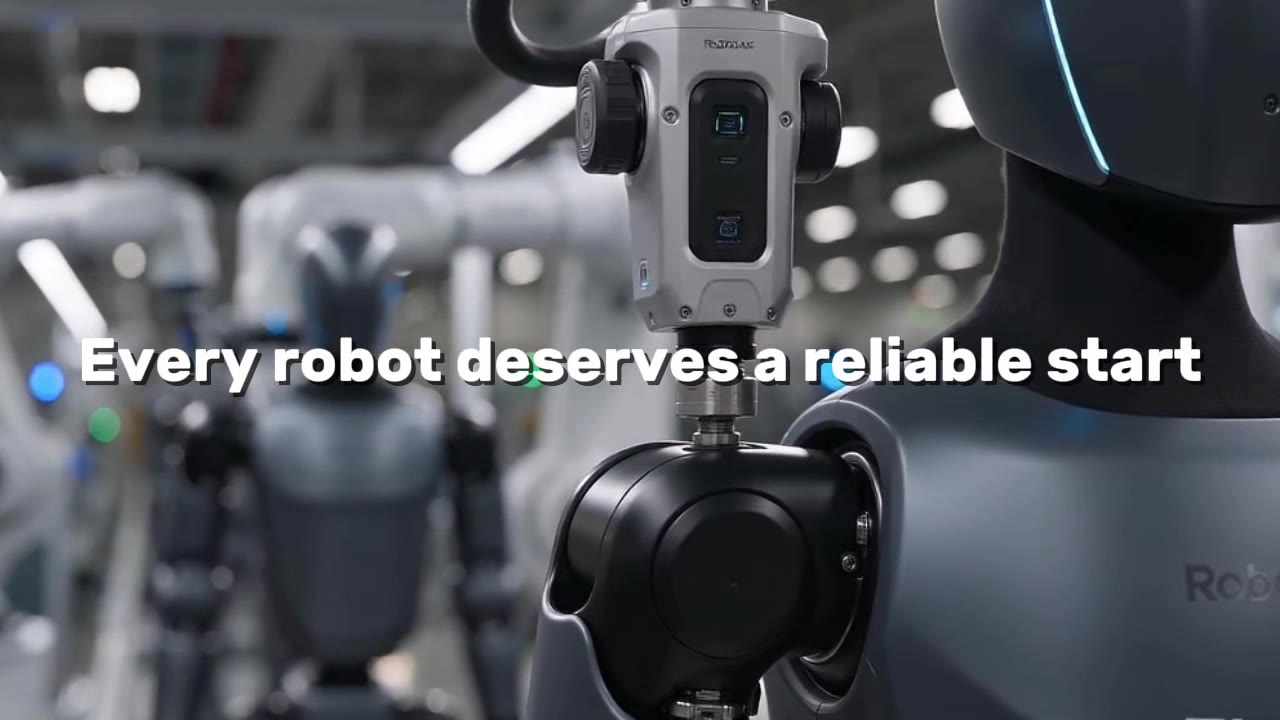
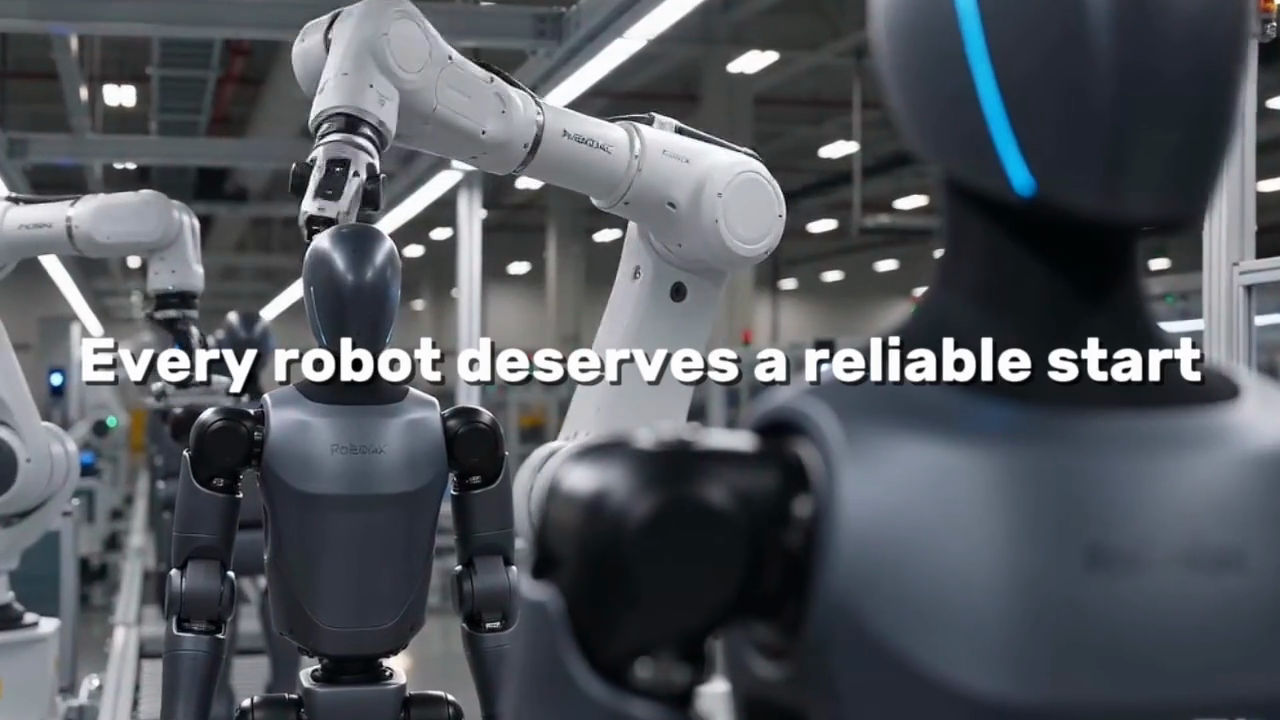
Hero cover: the film's own frame at 00:00.64
The cover was a still from later in the film; it is now the frame at 00:00.64, where the burned-in
headline has finished being written and the scene has settled. A frame earlier and the wipe is
still half-drawn - at 0.30s it reads "Every robot deserves a r", at 0.50s it is still finishing.

Extracted losslessly from the repository's encode, then saved as a single JPEG pass: 1280x720,
quality 80, progressive, 4:4:4 chroma, 101 KB against 71 KB outgoing. At 1:1 the 75, 80 and 90
renders are indistinguishable, because the source is already a video frame, so the middle quality
is what ships.

Both hosts were given the same bytes: OSS re-uploaded public-read with a one-week cache lifetime,
the repository file replaced. The poster URL now carries ?v=2 on all three references - the video's
poster attribute, the race's constant and the .hero-media fallback - which also makes the origin
race run fresh instead of answering out of a cached copy of the old poster.

Verified: OSS and the repository return the same sha256 (46ae3515...), the page resolves the poster
to the versioned URL for the video, the probe and the reduced-motion background, the film still
plays and the race still chooses its origin, and a 2x screenshot of the reduced-motion hero is the
0.64s frame - the headline complete, which only the post-0.6s frames have.

diff --git a/index.html b/index.html
@@ -238,7 +238,7 @@
     /* Respect a reduced-motion preference: hold the poster instead of playing the film. */
     @media (prefers-reduced-motion: reduce){
       .hero-video{display:none}
-      .hero-media{background:var(--hero-poster, url("https://robodiag.oss-cn-hangzhou.aliyuncs.com/robodiag-brand-poster.jpg")) center/cover no-repeat}
+      .hero-media{background:var(--hero-poster, url("https://robodiag.oss-cn-hangzhou.aliyuncs.com/robodiag-brand-poster.jpg?v=2")) center/cover no-repeat}
     }
 
     .mini-pulse{display:inline-block;width:7px;height:7px;background:#73a68b;border-radius:0;margin-right:6px;animation:pulse 1.8s steps(2,end) infinite}
@@ -914,7 +914,7 @@
           <div class="pixel-spark spark-a">✦</div><div class="pixel-spark spark-b">◆</div>
           <div class="hero-media">
             <video class="hero-video" autoplay muted loop playsinline preload="metadata"
-                   poster="https://robodiag.oss-cn-hangzhou.aliyuncs.com/robodiag-brand-poster.jpg"
+                   poster="https://robodiag.oss-cn-hangzhou.aliyuncs.com/robodiag-brand-poster.jpg?v=2"
                    aria-label="Robodiag brand film: robots on a test line, then the lines every robot deserves a reliable start, and Robodiag ensures the robots are ready for the real world.">
               <source src="https://robodiag.oss-cn-hangzhou.aliyuncs.com/robodiag-brand.mp4" type="video/mp4" />
             </video>
@@ -1513,7 +1513,10 @@
     // With scripting off the markup's OSS source stands, exactly as before.
     const heroSource = document.querySelector('.hero-video source')
     if (heroSource) {
-      const heroPoster = 'robodiag-brand-poster.jpg'
+      // The poster was replaced with the film's own frame at 00:00.64, so the URL carries a
+      // version: for the probe it forces a fresh race instead of answering from the cache, and
+      // for the cover it keeps a previously cached copy from sticking around.
+      const heroPoster = 'robodiag-brand-poster.jpg?v=2'
       const probes = ['https://robodiag.oss-cn-hangzhou.aliyuncs.com/', ''].map((base) => {
         const img = new Image()
         const probe = new Promise((resolve, reject) => {
